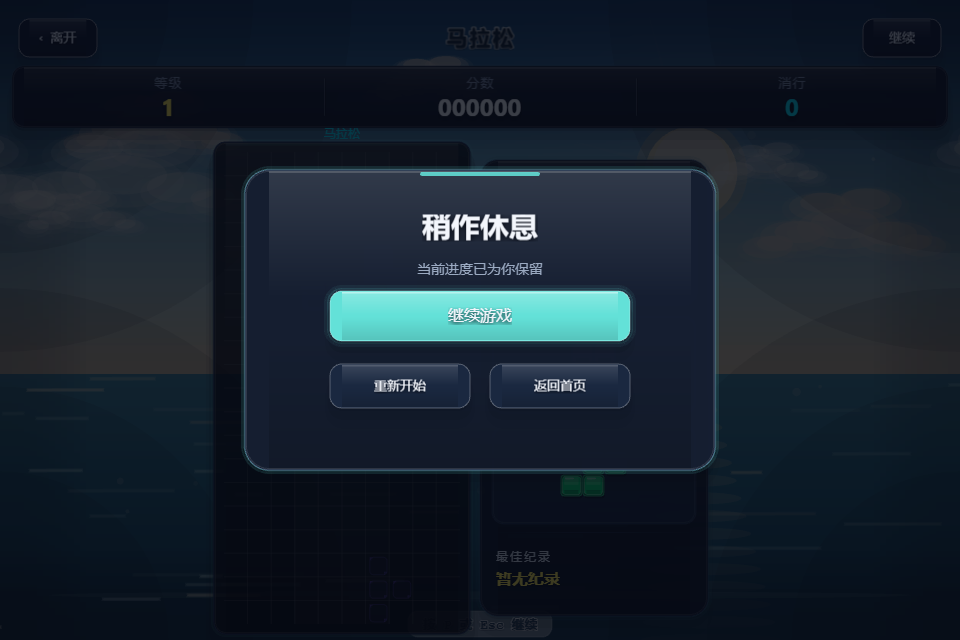
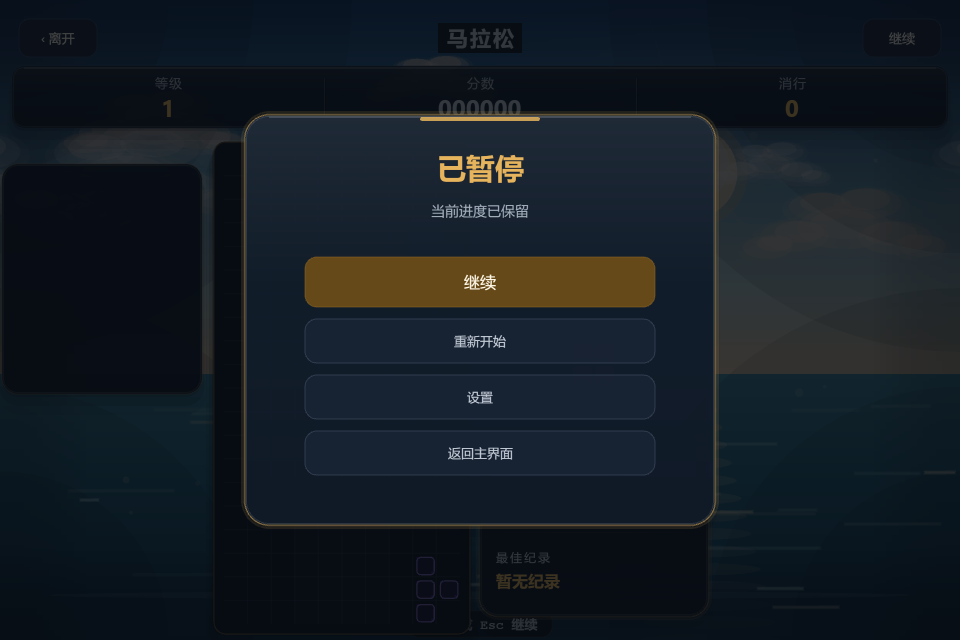
界面中文优先：默认简体中文，去除 TETRIS 商标用语（四连消/背靠背/T 旋），英文标题改 BLOCKS / UI zh-first localization

diff --git a/代码/视觉/技巧反馈.ts b/代码/视觉/技巧反馈.ts
@@ -1,16 +1,17 @@
 import type { 俄罗斯方块状态 } from "../玩法/俄罗斯方块";
 
-/** 文案完全来自规则判定，同一落块最多两行，适配小棋盘。 */
+/** 文案完全来自规则判定，同一落块最多两行，适配小棋盘。界面优先中文，避开 TETRIS 商标用语。 */
 export function 获取技巧反馈(e: NonNullable<俄罗斯方块状态["落块事件"]>, 英文: boolean): string {
   const 标签: string[] = [];
   if (e.全清) 标签.push(英文 ? "PERFECT CLEAR" : "完美清场");
-  if (e.T旋 !== "无") 标签.push(e.T旋 === "完整" ? "T-SPIN" : "T-SPIN MINI");
-  if (e.行数 === 4) 标签.push("TETRIS!");
+  if (e.T旋 !== "无")
+    标签.push(e.T旋 === "完整" ? (英文 ? "T-SPIN" : "T 旋") : 英文 ? "T-SPIN MINI" : "迷你 T 旋");
+  if (e.行数 === 4) 标签.push(英文 ? "QUAD!" : "四连消");
   else if (e.行数 > 0 && e.T旋 === "无")
     标签.push(英文 ? `${e.行数} LINE${e.行数 > 1 ? "S" : ""}` : `消除 ${e.行数} 行`);
   const 连续: string[] = [];
   if (e.连击 >= 2) 连续.push(英文 ? `COMBO ×${e.连击}` : `连击 ×${e.连击}`);
-  if (e.连续高难) 连续.push("BACK-TO-BACK");
+  if (e.连续高难) 连续.push(英文 ? "BACK-TO-BACK" : "背靠背");
   if (!标签.length && !连续.length) return "";
   return `${标签.join(" · ")}  +${e.得分}${连续.length ? `\n${连续.join(" · ")}` : ""}`;
 }

diff --git a/代码/场景/主界面/开始菜单.ts b/代码/场景/主界面/开始菜单.ts
@@ -304,7 +304,7 @@ export class 开始菜单 extends Phaser.Scene {
     }
     const 英文 = 解析语言(获取游戏设置().语言) !== "简体中文";
     const t = (zh: string, en: string) => (英文 ? en : zh);
-    document.title = t("俄罗斯方块 旅行版", "Tetris · Travel");
+    document.title = t("俄罗斯方块 旅行版", "Block Travel");
     this.标题层 = this.add.container(0, 0);
     const 描边文字 = (
       x: number,
@@ -328,7 +328,7 @@ export class 开始菜单 extends Phaser.Scene {
       return 对象;
     };
     if (!this.选择模式) {
-      描边文字(宽 / 2, this.标题y(), t("俄罗斯方块", "TETRIS"), 竖屏 && !矮屏 ? 36 : 30);
+      描边文字(宽 / 2, this.标题y(), t("俄罗斯方块", "BLOCKS"), 竖屏 && !矮屏 ? 36 : 30);
       描边文字(宽 / 2, this.副题y(), t("旅行版", "TRAVEL"), 16, "#f0ead3");
     }
     this.金币层 = this.add.container(0, 0);

diff --git a/测试/落块体验验收.ts b/测试/落块体验验收.ts
@@ -31,7 +31,7 @@ try {
     await page.addInitScript(() => {
       localStorage.setItem(
         "gamemaker:settings",
-        JSON.stringify({ 样式: "夜空鎏金", 音效音量: 0.8, 音乐音量: 0 }),
+        JSON.stringify({ 样式: "夜空鎏金", 音效音量: 0.8, 音乐音量: 0, 语言: "简体中文" }),
       );
       const 原创建 = AudioContext.prototype.createOscillator;
       (window as unknown as { 发声音符: number }).发声音符 = 0;
@@ -110,7 +110,7 @@ try {
       return window.__俄罗斯方块测试__!.读取界面();
     });
     check(
-      初.技巧反馈.includes("TETRIS!") && !初.技巧反馈.includes("完美清场"),
+      初.技巧反馈.includes("四连消") && !初.技巧反馈.includes("完美清场"),
       "首次四行未全清的真实棋盘",
     );
     check(初.音效事件.at(-1)?.名称 === "俄罗斯方块.四行", "首次四行独立音效实际派发");

diff --git a/测试/旧版玩法接入验收.ts b/测试/旧版玩法接入验收.ts
@@ -77,7 +77,7 @@ try {
     const 一次 = await page.evaluate(() => window.__俄罗斯方块测试__?.读取界面());
     check(
       一次?.技巧反馈.includes(width === 667 ? "PERFECT CLEAR" : "完美清场") &&
-        一次.技巧反馈.includes("TETRIS!"),
+        一次.技巧反馈.includes(width === 667 ? "QUAD!" : "四连消"),
       "真实四行全清显示分层奖励",
     );
     await shot("四行全清");
@@ -86,7 +86,7 @@ try {
     const 二次 = await page.evaluate(() => window.__俄罗斯方块测试__?.读取界面());
     check(
       二次?.技巧反馈.includes(width === 667 ? "COMBO ×2" : "连击 ×2") &&
-        二次.技巧反馈.includes("BACK-TO-BACK"),
+        二次.技巧反馈.includes(width === 667 ? "BACK-TO-BACK" : "背靠背"),
       "连续四行显示真实连击和高难奖励",
     );
     await shot("连击技巧");

diff --git a/代码/场景/对局/对局.ts b/代码/场景/对局/对局.ts
@@ -901,7 +901,7 @@ export class 对局 extends Phaser.Scene {
     this.标题文字 = this.add.text(
       0,
       0,
-      解析语言(获取游戏设置().语言) === "简体中文" ? "俄罗斯方块 旅行版" : "Tetris · Travel",
+      解析语言(获取游戏设置().语言) === "简体中文" ? "俄罗斯方块 旅行版" : "Block Travel",
       {
         fontFamily: "Arial, sans-serif",
         fontSize: "25px",

diff --git a/代码/界面/模式卡.ts b/代码/界面/模式卡.ts
@@ -27,7 +27,7 @@ function 读取模式纪录(模式: 游戏模式, 英文: boolean): string {
             : 英文
               ? "NO FINISH YET"
               : "尚无完赛纪录"
-          : `${纪录项.分数.toLocaleString()} pts`;
+          : `${纪录项.分数.toLocaleString()}${英文 ? " pts" : " 分"}`;
   } catch {
     /* 存储不可用时仍可开始游戏。 */
   }

diff --git a/代码/语言/English.ts b/代码/语言/English.ts
@@ -7,7 +7,7 @@ export const 文案: 俄罗斯方块文案 = {
   显示网格: "Show grid",
   显示按键说明: "Show key guide",
   返回暂停菜单: "Back to pause menu",
-  对局副标题: "Tetris · Arcade Mode",
+  对局副标题: "Travel Edition",
   操作标题: "Controls",
   操作移动: "← →   Move",
   操作旋转: "↑ / X Rotate · Hold ↑: swap",

diff --git a/测试/浏览器/界面修整.ts b/测试/浏览器/界面修整.ts
@@ -306,7 +306,7 @@ try {
     assert.ok(
       JSON.stringify(
         await 页.evaluate(() => window.__GAMEMAKER_TEST__?.getSnapshot("完整")),
-      ).includes("TETRIS"),
+      ).includes("BLOCKS"),
       "英文标题已翻译",
     );
     await 页.screenshot({ path: join(输出, `英文-${样式}.png`) });

diff --git a/代码/成就/俄罗斯方块成就.ts b/代码/成就/俄罗斯方块成就.ts
@@ -22,7 +22,7 @@ export const 成就定义 = [
     编号: "tetris",
     目标: 1,
     名称: "一举四行",
-    英文: "Tetris!",
+    英文: "Quad Clear!",
     说明: "一次消除四行",
     英文说明: "Clear four lines at once",
   },
